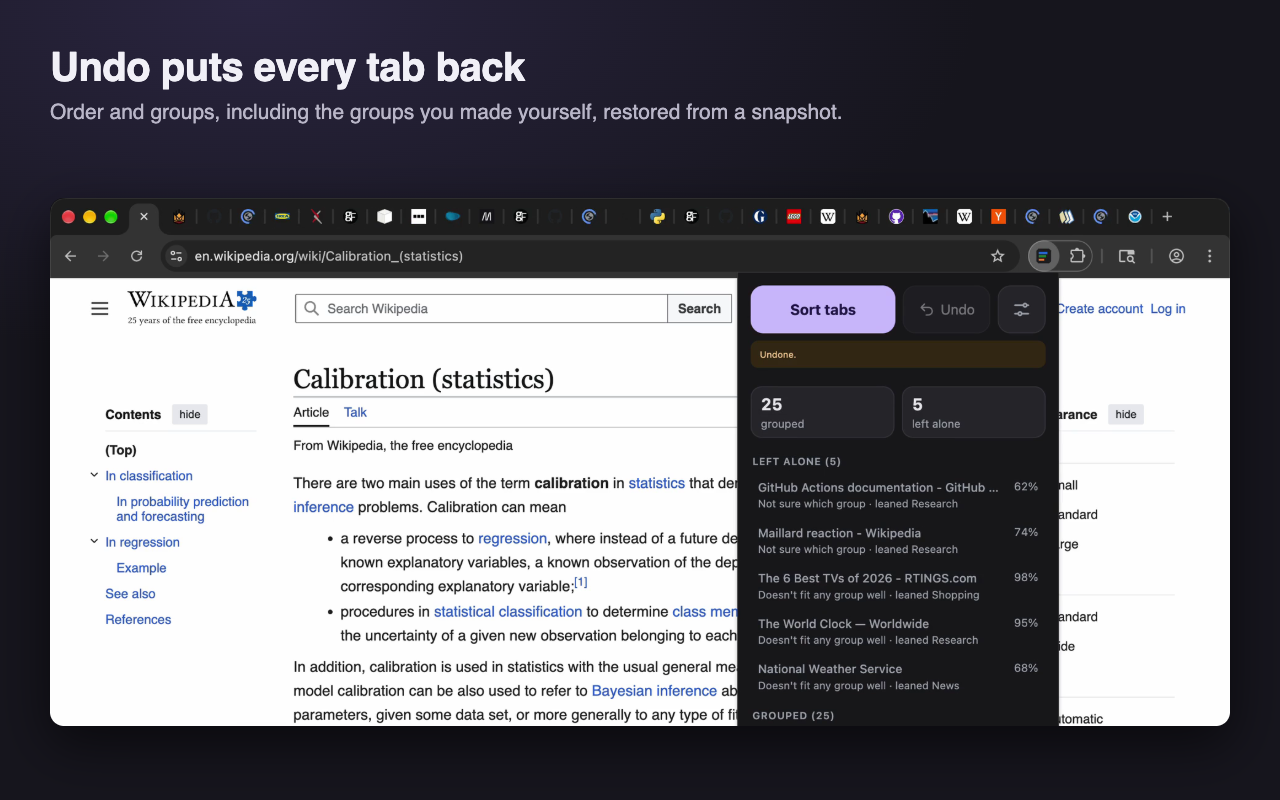
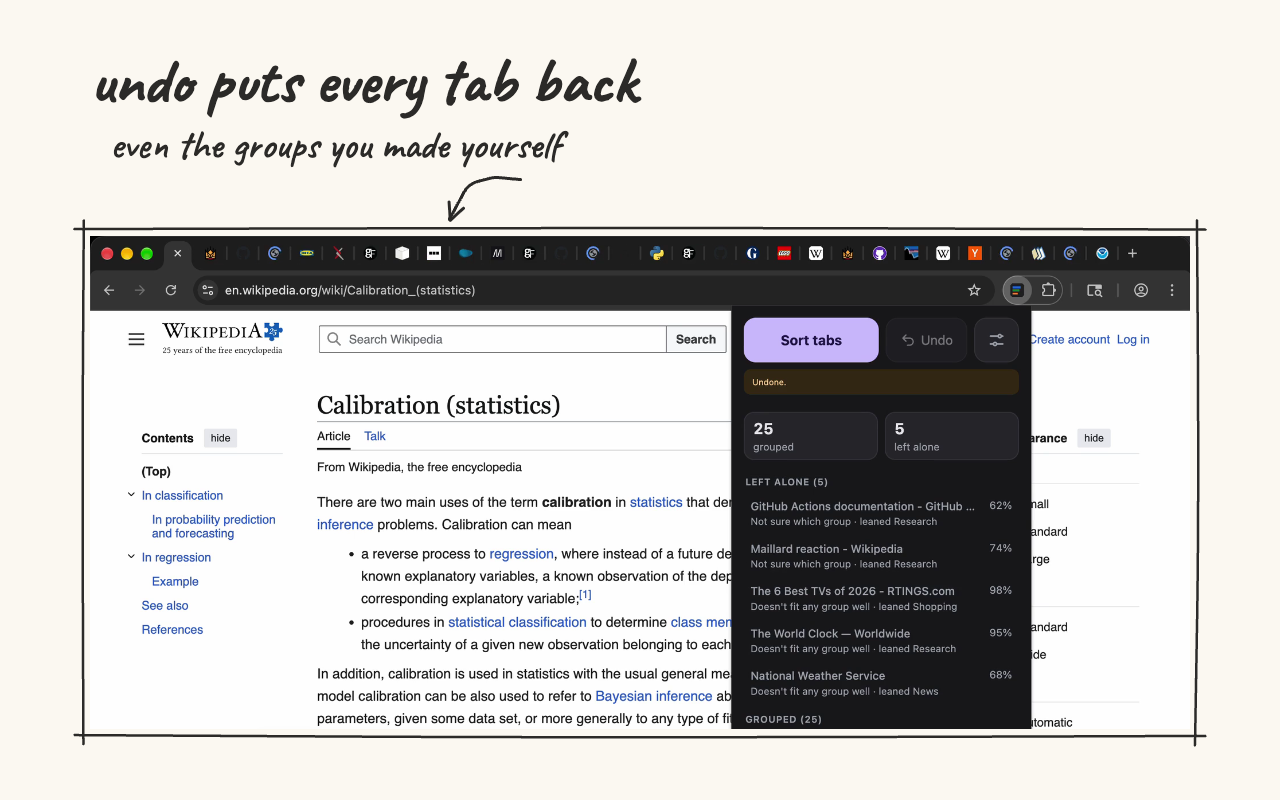
feat(store): redraw the store images in a simple hand-drawn style
Paper background, handwritten captions, sketched arrows and outlines around the
real screenshots, marker strokes in the tab-group colours.

diff --git a/store/make-assets.ts b/store/make-assets.ts
@@ -65,60 +65,149 @@ const opt = join(TMP, "options.png");
   }
 }
 
-const FONT = `-apple-system, "SF Pro Display", "Segoe UI", Roboto, Helvetica, Arial, sans-serif`;
+// --- Hand-drawn look: paper, a handwriting font, ink arrows and frames, marker scribbles. ---
+const INK = "#2b2a28";
+const PAPER = "#fbf8f1";
+const GROUP_COLORS = ["#1a73e8", "#188038", "#fa903e", "#d93025", "#a142f4"];
+
+/** Seeded random so every run draws the same wobbles. */
+function rng(seed: number) {
+  return () => {
+    seed = (seed + 0x6d2b79f5) | 0;
+    let t = Math.imul(seed ^ (seed >>> 15), 1 | seed);
+    t = (t + Math.imul(t ^ (t >>> 7), 61 | t)) ^ t;
+    return ((t ^ (t >>> 14)) >>> 0) / 4294967296;
+  };
+}
+type Pt = [number, number];
+/** A smooth path through points, each nudged a little, like a pen line. */
+function wobble(points: Pt[], seed: number, jitter = 2.2): string {
+  const r = rng(seed);
+  const p = points.map(([x, y]) => [x + (r() - 0.5) * jitter, y + (r() - 0.5) * jitter] as Pt);
+  let d = `M${p[0]![0].toFixed(1)},${p[0]![1].toFixed(1)}`;
+  for (let i = 1; i < p.length - 1; i++) {
+    const mx = (p[i]![0] + p[i + 1]![0]) / 2;
+    const my = (p[i]![1] + p[i + 1]![1]) / 2;
+    d += ` Q${p[i]![0].toFixed(1)},${p[i]![1].toFixed(1)} ${mx.toFixed(1)},${my.toFixed(1)}`;
+  }
+  const last = p[p.length - 1]!;
+  return d + ` L${last[0].toFixed(1)},${last[1].toFixed(1)}`;
+}
+/** Points along a curve from a to b, bowed sideways by `bend`. */
+function curve(a: Pt, b: Pt, bend: number, n = 9): Pt[] {
+  const [dx, dy] = [b[0] - a[0], b[1] - a[1]];
+  const [nx, ny] = [-dy, dx];
+  return Array.from({ length: n }, (_, i) => {
+    const t = i / (n - 1);
+    const s = Math.sin(Math.PI * t) * bend;
+    return [a[0] + dx * t + nx * s, a[1] + dy * t + ny * s] as Pt;
+  });
+}
+function arrow(a: Pt, b: Pt, bend: number, seed: number): string {
+  const pts = curve(a, b, bend);
+  const [px, py] = pts[pts.length - 2]!;
+  const ang = Math.atan2(b[1] - py, b[0] - px);
+  const head = (da: number) => [b, [b[0] - 18 * Math.cos(ang + da), b[1] - 18 * Math.sin(ang + da)] as Pt];
+  const line = (d: string, w = 3) => `<path d="${d}" fill="none" stroke="${INK}" stroke-width="${w}" stroke-linecap="round" stroke-linejoin="round"/>`;
+  return line(wobble(pts, seed)) + line(wobble(head(0.45), seed + 1, 1)) + line(wobble(head(-0.45), seed + 2, 1));
+}
+/** A sketched rectangle: four slightly wobbly strokes that overshoot at the corners. */
+function inkFrame(x: number, y: number, w: number, h: number, seed: number): string {
+  const o = 7; // gap between image and line
+  const e = 9; // overshoot past the corners
+  const [l, t, r, btm] = [x - o, y - o, x + w + o, y + h + o];
+  const sides: Pt[][] = [
+    [[l - e, t + 1], [(l + r) / 2, t - 1.5], [r + e, t]],
+    [[r, t - e], [r + 1.5, (t + btm) / 2], [r - 1, btm + e]],
+    [[r + e, btm], [(l + r) / 2, btm + 1.5], [l - e, btm - 1]],
+    [[l + 1, btm + e], [l - 1.5, (t + btm) / 2], [l, t - e]],
+  ];
+  return sides
+    .map((pts, i) => `<path d="${wobble(pts, seed + i, 2)}" fill="none" stroke="${INK}" stroke-width="2.5" stroke-linecap="round"/>`)
+    .join("");
+}
+/** Five short marker strokes in the tab-group colours. */
+function scribbles(x: number, y: number, len: number, gap: number, width: number, seed: number): string {
+  return GROUP_COLORS.map((c, i) => {
+    const x0 = x + i * (len + gap);
+    const r = rng(seed + i);
+    const pts: Pt[] = [[x0, y + r() * 4], [x0 + len * 0.5, y - 2 + r() * 4], [x0 + len, y + r() * 4]];
+    return `<path d="${wobble(pts, seed + i, 2)}" fill="none" stroke="${c}" stroke-width="${width}" stroke-linecap="round" opacity="0.85"/>`;
+  }).join("");
+}
+const img = (f: string, x: number, y: number, w: number, h: number) =>
+  `<img src="${b64(f)}" style="position:absolute;left:${x}px;top:${y}px;width:${w}px;height:${h}px;object-fit:cover;object-position:top left">`;
+const text = (t: string, x: number, y: number, size: number, extra = "") =>
+  `<div style="position:absolute;left:${x}px;top:${y}px;font-size:${size}px;line-height:1.05;${extra}">${t}</div>`;
+
 const browser = await chromium.launch({ executablePath: chromiumPath() });
 const page = await browser.newPage();
-async function render(html: string, w: number, h: number, path: string) {
+async function render(w: number, h: number, body: string, svg: string, path: string) {
   await page.setViewportSize({ width: w, height: h });
-  await page.setContent(`<!doctype html><meta charset="utf-8"><style>
-    *{box-sizing:border-box} html,body{margin:0;width:${w}px;height:${h}px;overflow:hidden;font-family:${FONT};
-    background:radial-gradient(1200px 600px at 20% 0%,#2a2540 0%,#16151d 60%);color:#f1f0f7}
-    h1{font-size:40px;font-weight:750;letter-spacing:-.5px;margin:0} p{font-size:21px;color:#b9b6c8;margin:10px 0 0}
-    .shot{border-radius:14px;box-shadow:0 18px 50px rgba(0,0,0,.55);display:block}
-  </style>${html}`);
-  await page.waitForLoadState("load");
+  await page.setContent(`<!doctype html><meta charset="utf-8">
+    <link href="https://fonts.googleapis.com/css2?family=Caveat:wght@500;700&display=block" rel="stylesheet">
+    <style>html,body{margin:0;width:${w}px;height:${h}px;overflow:hidden;background:${PAPER};color:${INK};font-family:Caveat,cursive}
+    body{position:relative}</style>${body}
+    <svg width="${w}" height="${h}" style="position:absolute;inset:0">${svg}</svg>`);
+  await page.waitForLoadState("networkidle");
+  await page.evaluate(() => document.fonts.ready);
   await page.screenshot({ path });
 }
-const full = (title: string, sub: string, img: string) =>
-  `<div style="display:flex;flex-direction:column;height:800px">
-     <div style="padding:44px 50px 0"><h1>${title}</h1><p>${sub}</p></div>
-     <div style="flex:1;display:flex;align-items:center;justify-content:center"><img class="shot" src="${b64(img)}" style="width:1180px"></div></div>`;
 
-await render(full("Sorts your tabs into groups, only when it's sure", "Real Chrome tab groups, made by a calibrated classifier. One click, one window.", shots.sorted), 1280, 800, join(OUT, "screenshot-1.png"));
-await render(
-  `<div style="display:flex;gap:56px;padding:56px 64px;align-items:center;height:800px">
-     <div style="flex:1"><h1>Not sure? It leaves the tab alone.</h1>
-       <p>Every tab shows its probability. Tabs below your threshold stay exactly where they are, with the reason why.</p>
-       <p style="margin-top:22px">No account and no API key: install it, accept the one-screen consent, press Sort.</p></div>
-     <img class="shot" src="${b64(shots.popup)}" style="height:690px"></div>`,
-  1280, 800, join(OUT, "screenshot-2.png"),
-);
-await render(full("Before: tabs in no order", "tab-triage only looks at the tabs in the current window.", shots.messy), 1280, 800, join(OUT, "screenshot-3.png"));
-await render(full("Undo puts every tab back", "Order and groups, including the groups you made yourself, restored from a snapshot.", shots.undone), 1280, 800, join(OUT, "screenshot-4.png"));
-await render(
-  `<div style="display:flex;gap:48px;padding:52px 60px;height:800px">
-     <div style="width:400px;flex:none;padding-top:20px"><h1>You choose the groups. You see what's sent.</h1>
-       <p>Describe each group in plain words. The Options page shows the exact request: a hostname and a title, nothing else.</p></div>
-     <img class="shot" src="${b64(opt)}" style="width:557px;height:696px;object-fit:cover;object-position:top"></div>`,
-  1280, 800, join(OUT, "screenshot-5.png"),
-);
-await render(
-  `<div style="height:280px;display:flex;flex-direction:column;justify-content:center;padding:0 34px;gap:14px">
-     <div style="display:flex;gap:8px">${["#1a73e8", "#188038", "#fa903e", "#d93025", "#a142f4"].map((c) => `<div style="width:46px;height:10px;border-radius:5px;background:${c}"></div>`).join("")}</div>
-     <div style="font-size:46px;font-weight:800;letter-spacing:-1px">tab-triage</div>
-     <div style="font-size:19px;color:#c9c6d8;line-height:1.35">Sorts your tabs into groups,<br>only when it's sure. Undo anytime.</div></div>`,
-  440, 280, join(OUT, "promo-small.png"),
-);
-await render(
-  `<div style="display:flex;align-items:center;gap:64px;height:560px;padding:0 80px">
-     <div style="flex:1;display:flex;flex-direction:column;gap:20px">
-       <div style="display:flex;gap:10px">${["#1a73e8", "#188038", "#fa903e", "#d93025", "#a142f4"].map((c) => `<div style="width:64px;height:14px;border-radius:7px;background:${c}"></div>`).join("")}</div>
-       <div style="font-size:84px;font-weight:800;letter-spacing:-2px;line-height:1">tab-triage</div>
-       <div style="font-size:30px;color:#c9c6d8;line-height:1.35">Sorts your tabs into Chrome tab groups,<br>only when it's sure. Undo anytime.</div>
-     </div>
-     <img class="shot" src="${b64(shots.popup)}" style="height:470px"></div>`,
-  1400, 560, join(OUT, "promo-marquee.png"),
-);
+// Full-window frames are 1920×860; shown at 1100 wide (×0.573), top-left at (90, 236).
+const FW = 1100;
+const FH = Math.round((860 * FW) / 1920);
+const [FX, FY] = [90, 236];
+
+await render(1280, 800,
+  text("sorts your tabs into groups", 90, 48, 64, "font-weight:700") + text("…only the ones it's sure about", 110, 124, 40) +
+    text("and tells you about the rest", 860, 92, 34) + img(shots.sorted, FX, FY, FW, FH),
+  arrow([470, 180], [400, FY - 16], 0.25, 11) + arrow([1010, 136], [930, FY - 16], 0.12, 21) + inkFrame(FX, FY, FW, FH, 31),
+  join(OUT, "screenshot-1.png"));
+
+// The popup crop is 520×896; shown 640 tall.
+const PH = 640;
+const PW = Math.round((520 * PH) / 896);
+const [PX, PY] = [760, 80];
+await render(1280, 800,
+  text("not sure?", 90, 210, 72, "font-weight:700") + text("it leaves the tab alone,<br>and tells you why", 96, 300, 46) +
+    text("no account, no api key.<br>just press sort.", 96, 560, 34, "opacity:.8") + img(shots.popup, PX, PY, PW, PH),
+  arrow([560, 340], [PX - 14, PY + 190], -0.12, 41) + inkFrame(PX, PY, PW, PH, 51),
+  join(OUT, "screenshot-2.png"));
+
+await render(1280, 800,
+  text("before: thirty tabs, no order", 90, 60, 64, "font-weight:700") + img(shots.messy, FX, FY, FW, FH),
+  arrow([700, 112], [540, FY - 16], 0.22, 61) + inkFrame(FX, FY, FW, FH, 71),
+  join(OUT, "screenshot-3.png"));
+
+await render(1280, 800,
+  text("undo puts every tab back", 90, 48, 64, "font-weight:700") + text("even the groups you made yourself", 110, 124, 40) +
+    img(shots.undone, FX, FY, FW, FH),
+  arrow([520, 180], [450, FY - 16], 0.25, 81) + inkFrame(FX, FY, FW, FH, 91),
+  join(OUT, "screenshot-4.png"));
+
+// The Options crop is 800×1000; shown 640 tall.
+const OH = 640;
+const OW = Math.round((800 * OH) / 1000);
+const [OX, OY] = [660, 80];
+await render(1280, 800,
+  text("you write the groups.", 90, 230, 60, "font-weight:700") + text("and you can see exactly<br>what gets sent", 96, 310, 44) +
+    img(opt, OX, OY, OW, OH),
+  arrow([520, 400], [OX - 18, OY + 150], -0.15, 101) + inkFrame(OX, OY, OW, OH, 111),
+  join(OUT, "screenshot-5.png"));
+
+await render(440, 280,
+  text("tab-triage", 40, 62, 84, "font-weight:700") + text("sorts your tabs, only when it's sure", 44, 200, 30),
+  scribbles(46, 170, 50, 14, 9, 121),
+  join(OUT, "promo-small.png"));
+
+const MH = 470;
+const MW = Math.round((520 * MH) / 896);
+await render(1400, 560,
+  text("tab-triage", 100, 150, 130, "font-weight:700") + text("sorts your tabs into groups,<br>only when it's sure. undo anytime.", 106, 340, 44) +
+    img(shots.popup, 1400 - 120 - MW, 45, MW, MH),
+  scribbles(108, 305, 78, 18, 13, 131) + inkFrame(1400 - 120 - MW, 45, MW, MH, 141),
+  join(OUT, "promo-marquee.png"));
 await browser.close();
 
 // Store icon: the 128px icon's artwork at 96×96, centred on a transparent 128×128 canvas
